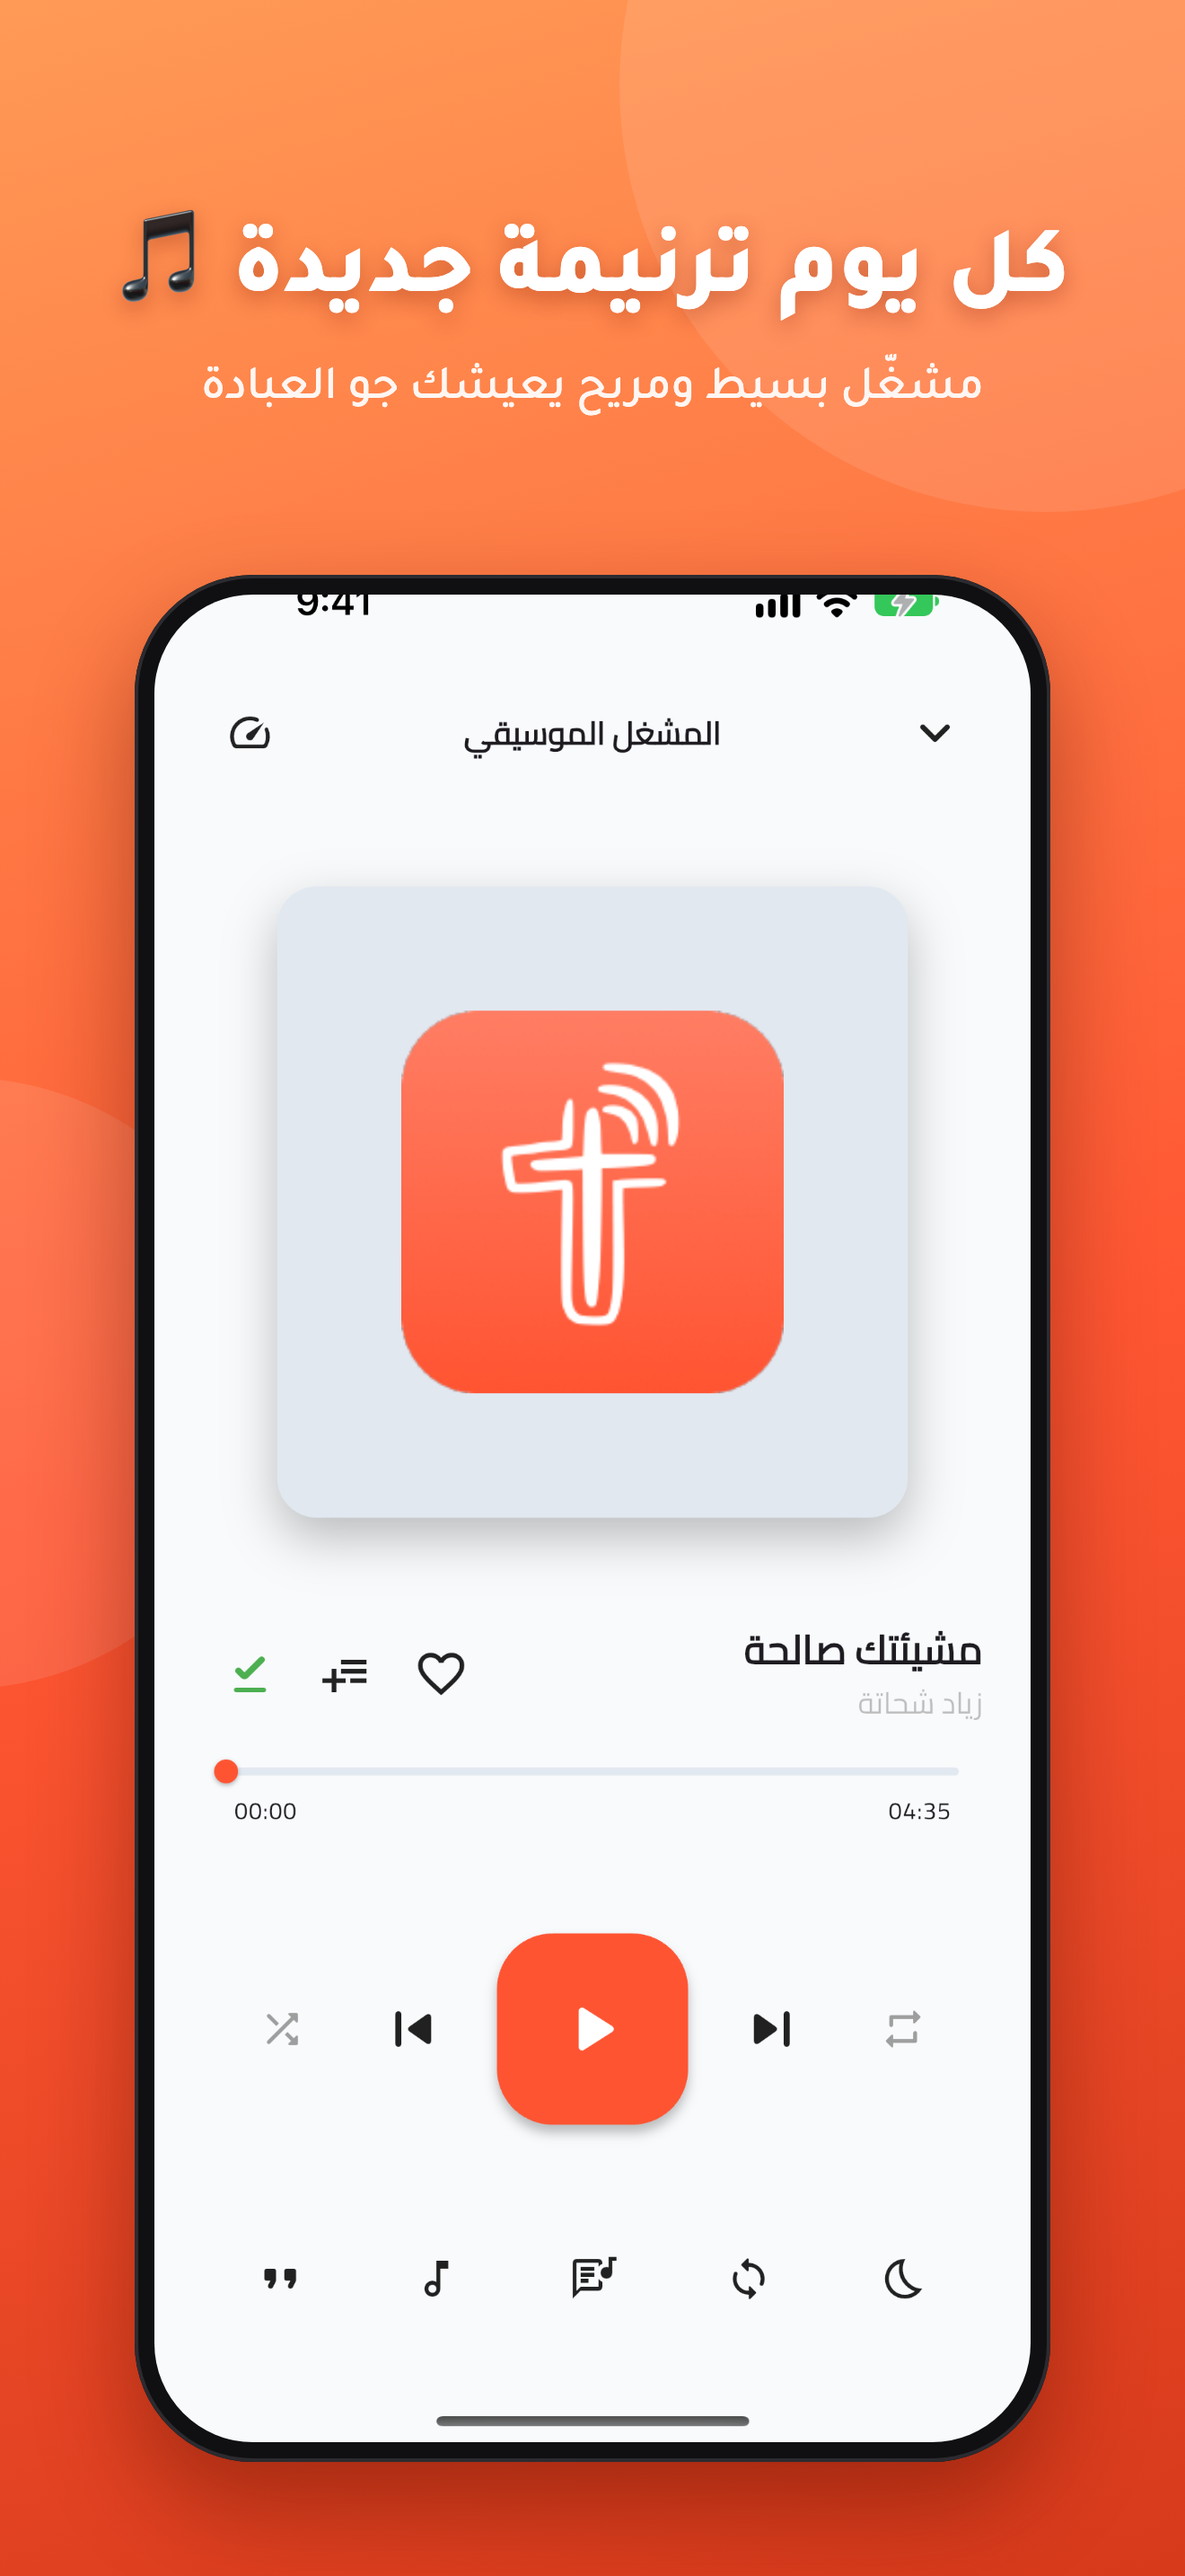
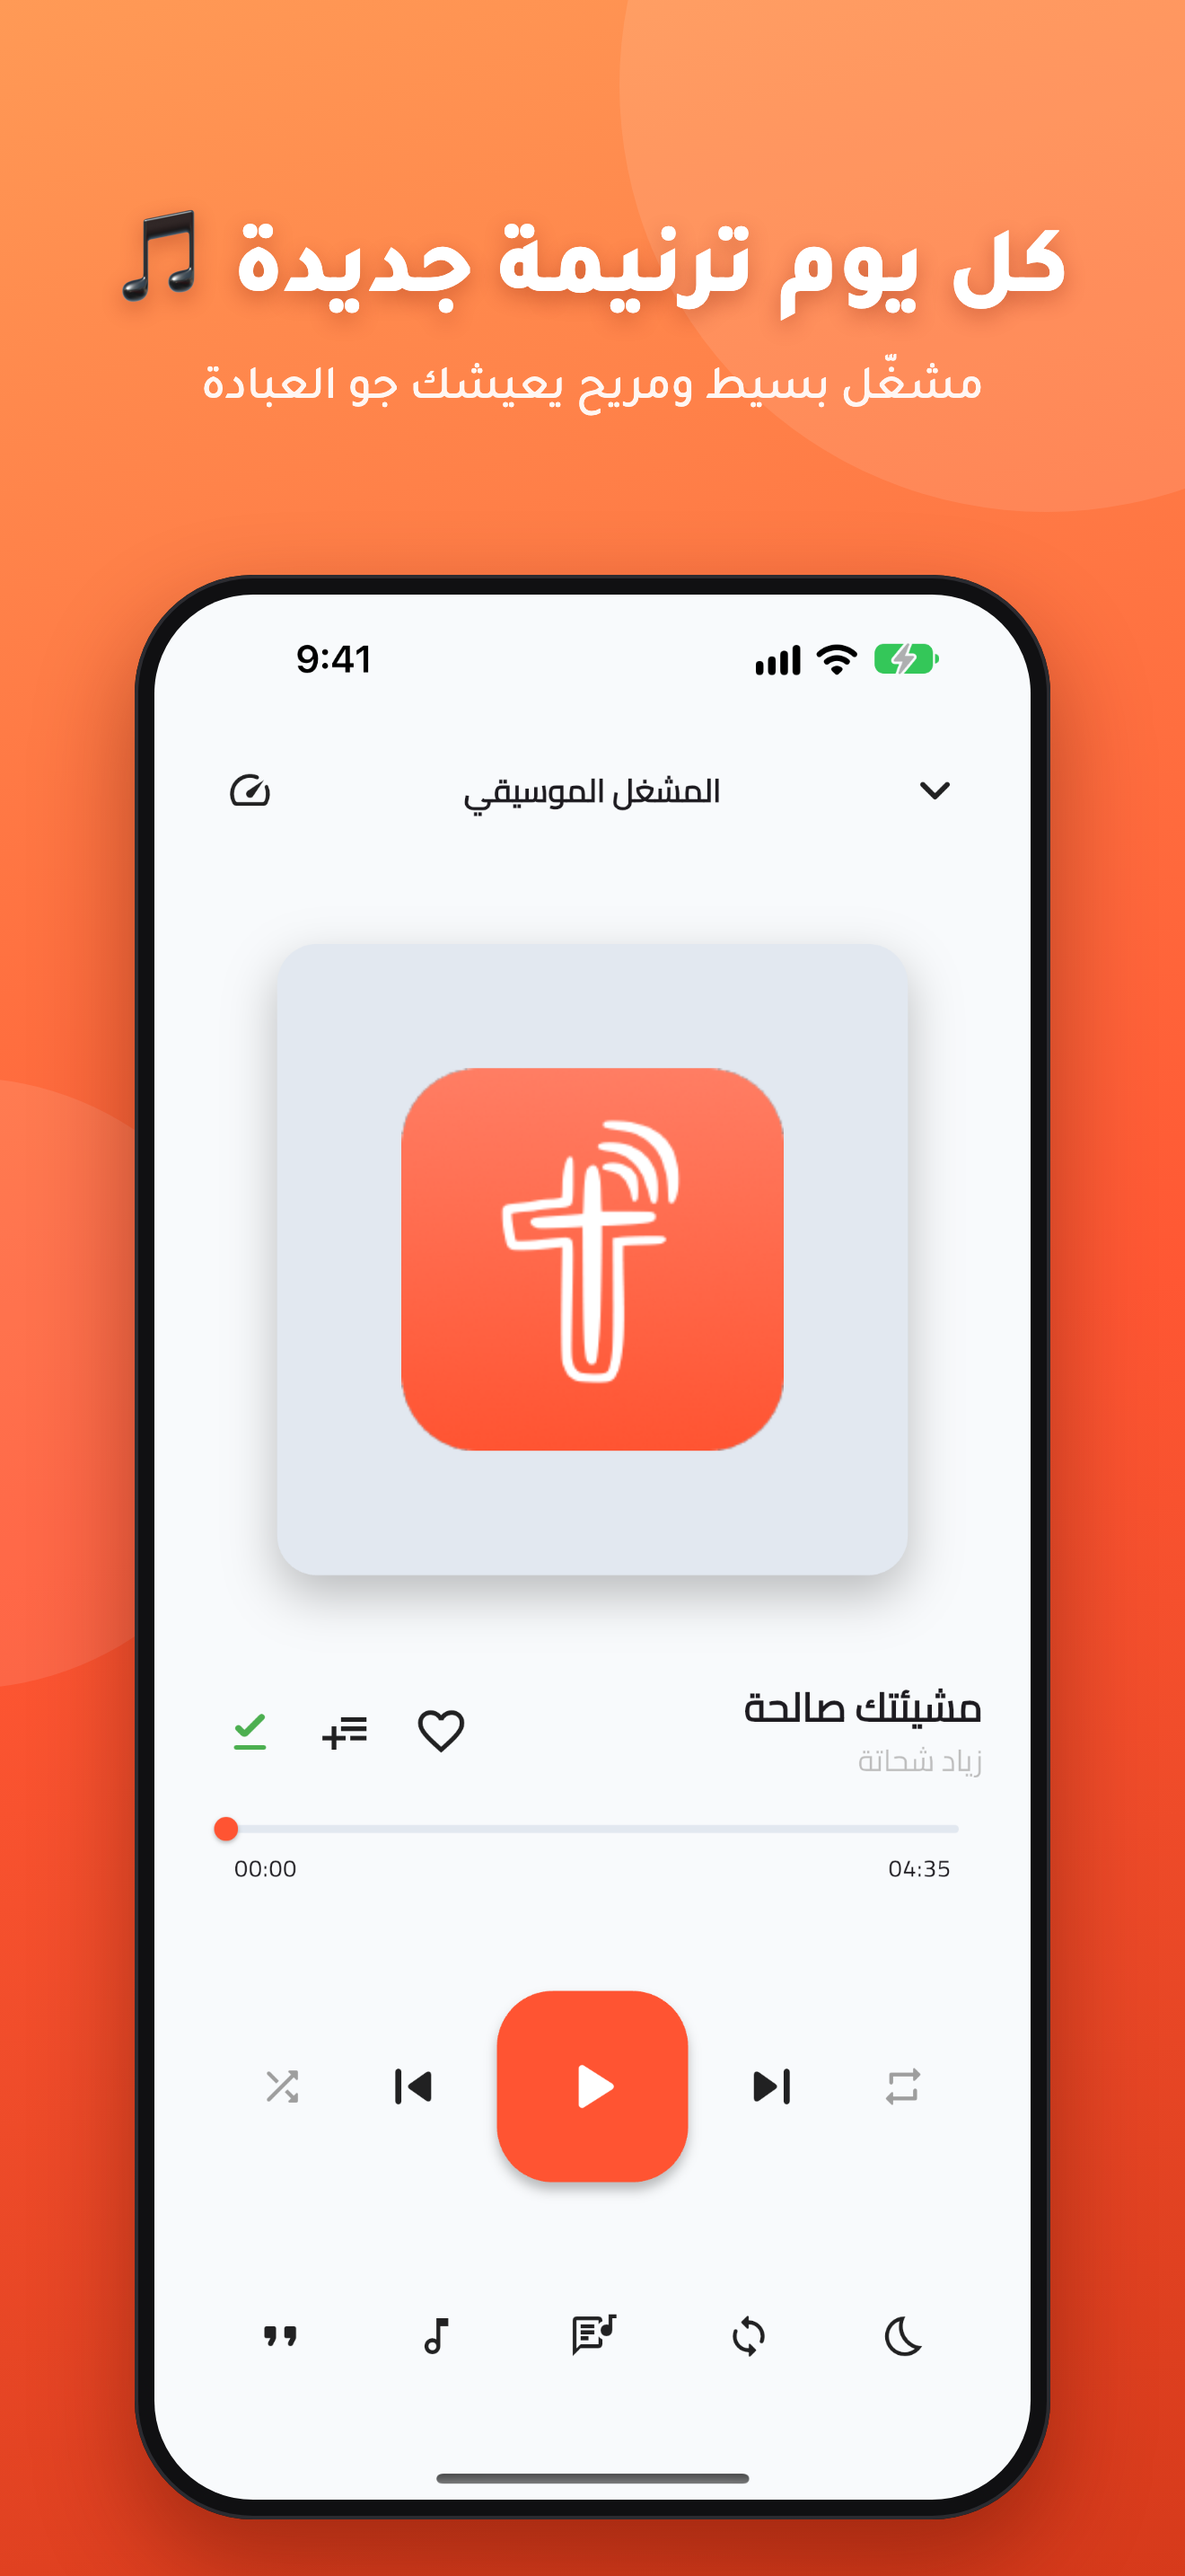
fix(store): align iOS and iPad simulator screenshots to clearly display native status bar

diff --git a/store-screenshots/build_ipad.py b/store-screenshots/build_ipad.py
@@ -1,11 +1,11 @@
 #!/usr/bin/env python3
 """Compose App Store iPad 13" screenshots: python3 store-screenshots/build_ipad.py
-Needs Microsoft Edge (or set CHROME). Output in ipad/ (2064×2752, App Store 13" iPad display)."""
+Needs Microsoft Edge (or set CHROME). Output in ipad/ (2064×2752, App Store iPad display)."""
 import os, subprocess, pathlib, time
 
 ROOT = pathlib.Path(__file__).parent.resolve()
 CHROME = os.environ.get("CHROME", "/Applications/Microsoft Edge.app/Contents/MacOS/Microsoft Edge")
-W, H = 2064, 2752  # App Store 13" iPad Pro (2064×2752)
+W, H = 2064, 2752  # App Store iPad 13" display
 
 # (raw file, title, subtitle)
 SLIDES = [
@@ -30,7 +30,7 @@ p{{font-weight:500;font-size:54px;margin-top:28px;opacity:.93}}
 .tablet{{position:absolute;top:580px;left:182px;width:1700px;padding:26px;background:#101012;
   border-radius:64px;box-shadow:0 50px 110px rgba(90,15,0,.45),inset 0 0 0 4px #2b2b30}}
 .scr{{overflow:hidden;border-radius:46px}}
-.tablet img{{display:block;width:100%;margin-top:-32px}}
+.tablet img{{display:block;width:100%;margin-top:0}}
 </style><body><div class="stage">
 <div class="blob" style="width:1100px;height:1100px;top:-400px;right:-350px"></div>
 <div class="blob" style="width:800px;height:800px;top:1100px;left:-400px"></div>
@@ -58,9 +58,8 @@ for raw, title, sub in SLIDES:
                          stdout=subprocess.DEVNULL, stderr=subprocess.DEVNULL)
     for _ in range(120):
         time.sleep(0.5)
-        if out.exists() and out.stat().st_size > 0 and p.poll() is None:
-            time.sleep(1); break
-        if p.poll() is not None: break
+        if out.exists() and out.stat().st_size > 50000:
+            break
     p.kill()
-    page.unlink()
-    print("wrote", out)
+    page.unlink(missing_ok=True)
+    print(f"wrote {out}")

diff --git a/store-screenshots/build_ios.py b/store-screenshots/build_ios.py
@@ -30,7 +30,7 @@ p{{font-weight:500;font-size:52px;margin-top:28px;opacity:.93}}
 .phone{{position:absolute;top:640px;left:150px;width:1020px;padding:22px;background:#101012;
   border-radius:132px;box-shadow:0 50px 110px rgba(90,15,0,.45),inset 0 0 0 4px #2b2b30}}
 .scr{{overflow:hidden;border-radius:110px}}
-.phone img{{display:block;width:100%;margin-top:-64px}}  /* crops status bar */
+.phone img{{display:block;width:100%;margin-top:0}}
 </style><body><div class="stage">
 <div class="blob" style="width:950px;height:950px;top:-380px;right:-320px"></div>
 <div class="blob" style="width:680px;height:680px;top:1200px;left:-380px"></div>
@@ -58,9 +58,8 @@ for raw, title, sub in SLIDES:
                          stdout=subprocess.DEVNULL, stderr=subprocess.DEVNULL)
     for _ in range(120):
         time.sleep(0.5)
-        if out.exists() and out.stat().st_size > 0 and p.poll() is None:
-            time.sleep(1); break
-        if p.poll() is not None: break
+        if out.exists() and out.stat().st_size > 50000:
+            break
     p.kill()
-    page.unlink()
-    print("wrote", out)
+    page.unlink(missing_ok=True)
+    print(f"wrote {out}")
